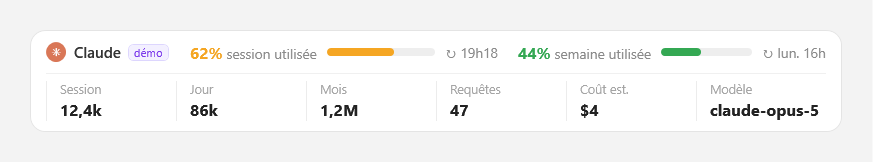
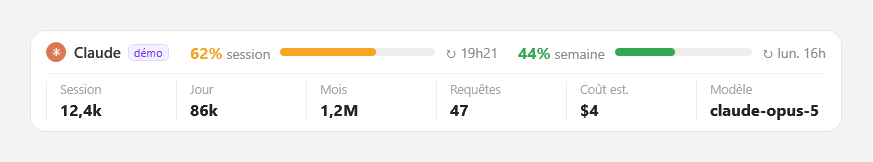
fix: libelles de jauge raccourcis, precision en infobulle
« session » et « semaine » au lieu de « session utilisee » / « semaine
utilisee » : le mot en trop coutait la largeur des barres.

Le libelle seul ne dit plus si le chiffre est le consomme ou le restant —
l'ambiguite qui avait justement cause l'ecart avec claude.ai. Elle est levee
par une infobulle qui donne les deux (« 62 % utilises, 38 % restants »), sans
coûter de place. Un test verrouille libelle court et infobulle explicite.

Claude-Session: https://claude.ai/code/session_01YT6Qea6YbvyeEBfMhfv4xK

diff --git a/Views/UsagePanel.xaml b/Views/UsagePanel.xaml
@@ -86,7 +86,9 @@
                 </Grid.ColumnDefinitions>
 
                 <TextBlock Grid.Column="0" VerticalAlignment="Center"
-                           FontSize="11" Foreground="#8A8A8A">
+                           FontSize="11" Foreground="#8A8A8A"
+                           ToolTip="{Binding Tooltip}"
+                           ToolTipService.IsEnabled="{Binding Tooltip.Length}">
                     <Run Text="{Binding UsedPct, Mode=OneWay}"
                          FontSize="13" FontWeight="Bold"
                          Foreground="{Binding Color, Converter={StaticResource StringToBrushConverter}}"/><Run

diff --git a/DockPad.Tests/UsageViewModelTests.cs b/DockPad.Tests/UsageViewModelTests.cs
@@ -285,16 +285,19 @@ public class UsageViewModelTests
     }
 
     [Fact]
-    public async Task Jauge_LibelleDitExplicitementQueLePourcentageEstConsomme()
+    public async Task Jauge_LibelleCourtMaisInfobulleExplicite()
     {
-        // « 26 % session » ne dit pas si c'est le consommé ou le restant. La page officielle
-        // claude.ai/settings/usage annonce « 26 % utilisés » : deux references pour la meme donnee
-        // ne doivent pas se contredire.
-        var vm = Build(ConfigFor(("a", false)), Usage("a"));
+        // Le libellé est court par choix. « 62 % session » ne disant pas si le chiffre est le
+        // consommé ou le restant, l'infobulle doit lever le doute — c'est le consommé que compte
+        // claude.ai/settings/usage, et deux références pour la même donnée ne doivent pas se
+        // contredire.
+        var vm = Build(ConfigFor(("a", false)), Usage("a", sessionUsed: 62));
         await vm.RefreshAsync();
 
-        Assert.Contains("utilisée", vm.SessionGauge!.Label);
-        Assert.Contains("utilisée", vm.WeekGauge!.Label);
+        Assert.Equal("session", vm.SessionGauge!.Label);
+        Assert.Equal("semaine", vm.WeekGauge!.Label);
+        Assert.Contains("62 % utilisés", vm.SessionGauge.Tooltip);
+        Assert.Contains("38 % restants", vm.SessionGauge.Tooltip);
     }
 
     // --- Démo

diff --git a/Services/Usage/UsageViewModel.cs b/Services/Usage/UsageViewModel.cs
@@ -187,10 +187,8 @@ public sealed class UsageViewModel : INotifyPropertyChanged
 
     private void BuildGauges(AiUsage? selected)
     {
-        // « utilisée » explicitement : « 26 % session » ne dit pas si c'est le consommé ou le
-        // restant, et la page officielle écrit « utilisés ».
-        SessionGauge = Gauge("session utilisée", selected?.Session);
-        WeekGauge = Gauge("semaine utilisée", selected?.Week);
+        SessionGauge = Gauge("session", selected?.Session);
+        WeekGauge = Gauge("semaine", selected?.Week);
     }
 
     private UsageGaugeItem Gauge(string label, UsageWindow? window)
@@ -208,6 +206,9 @@ public sealed class UsageViewModel : INotifyPropertyChanged
             RemainingPct = window.RemainingPct,
             Reset = UsageFormat.Reset(window.ResetsAt, _clock()),
             Color = UsageFormat.GaugeColor(window.UsedPct, _config.AlertThreshold),
+            // Le libellé est court par choix, mais « 62 % session » ne dit pas si le chiffre est le
+            // consommé ou le restant. L'infobulle lève le doute sans coûter de place.
+            Tooltip = $"{window.UsedPct} % utilisés, {window.RemainingPct} % restants",
         };
     }
 

diff --git a/Models/UsageDisplayItems.cs b/Models/UsageDisplayItems.cs
@@ -65,6 +65,9 @@ public sealed class UsageGaugeItem
     public string Reset { get; init; } = "";
     public string Color { get; init; } = "";
 
+    /// <summary>Précision au survol : le libellé affiché est volontairement court.</summary>
+    public string Tooltip { get; init; } = "";
+
     /// <summary>
     /// Le fournisseur expose-t-il un quota ? Faux → la barre est remplacée par « quota inconnu »
     /// plutôt que par une barre vide, qui se lirait comme « rien consommé ».

diff --git a/CLAUDE.md b/CLAUDE.md
@@ -280,7 +280,8 @@ Rétrocompatible JSON : `SearchMode` absent → `ByProcessName` par défaut
 ### Bandeau Usage IA
 Bandeau sous la grille (`Views/UsagePanel.xaml`), 4ᵉ ligne de `QuickAccessWindow` : toolbar / grille / **bandeau** / pagination. Masqué, il est en `Collapsed` et ne prend aucune place.
 
-- **Contenu** : un onglet par fournisseur (pastille colorée + nom + badge « démo »), les deux jauges *session* et *semaine* (pourcentage **restant** en gras dans la couleur de la jauge, `↻ heure de reset`, barre de 6 px), puis six colonnes de métriques — Session, Jour, Mois, Requêtes, Coût est., Modèle. Coût décoché → cinq colonnes
+- **Contenu** : un onglet par fournisseur (pastille colorée + nom + badge « démo »), les deux jauges *session* et *semaine* sur une seule ligne chacune (pourcentage **consommé** en gras dans la couleur de la jauge, barre de 6 px, `↻ heure de reset`), puis six colonnes de métriques — Session, Jour, Mois, Requêtes, Coût est., Modèle. Coût décoché → cinq colonnes
+- **Libellés courts (« session », « semaine ») et infobulle explicite** : le libellé seul ne dit pas si le chiffre est le consommé ou le restant, l'infobulle donne les deux. Le mot « utilisée » dans le libellé coûtait la largeur des barres
 - **Un seul fournisseur visible → aucun onglet** : nom et pastille en libellé statique. Un onglet unique et cliquable suggère un choix qui n'existe pas. Le seuil est le nombre de fournisseurs visibles, pas une constante
 - **La barre suit le restant, pas le consommé** : elle doit s'accorder avec le nombre affiché juste au-dessus. Une barre remplie à 62 % sous un « 38 % » se lit comme un défaut (vu à la capture). Jauge de carburant : elle se vide quand on consomme
 - **Les onglets ont leur propre ligne** : au-delà de deux fournisseurs, onglets et jauges ne tiennent pas côte à côte à 850 px, et le texte de reset se tronquait
